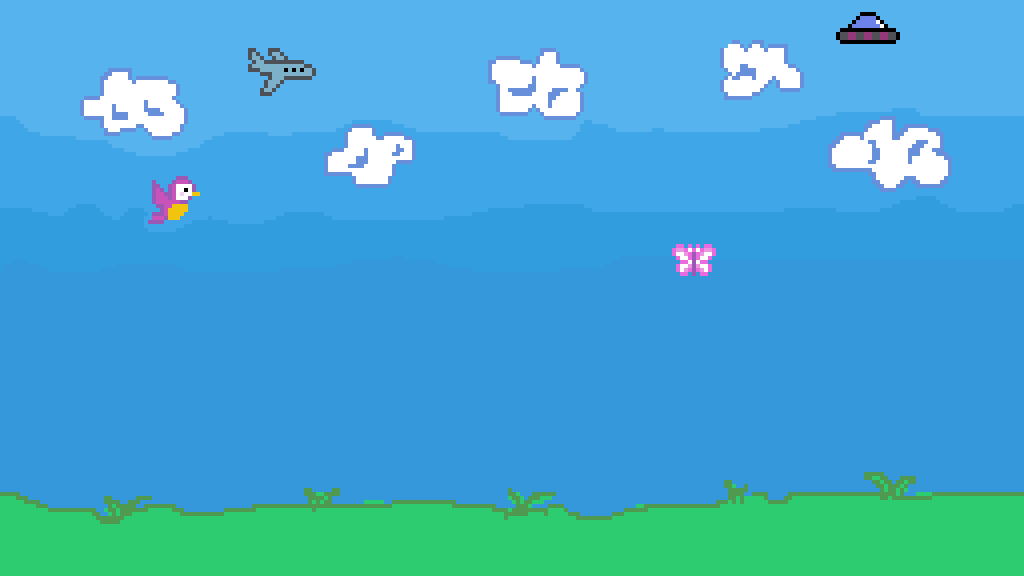
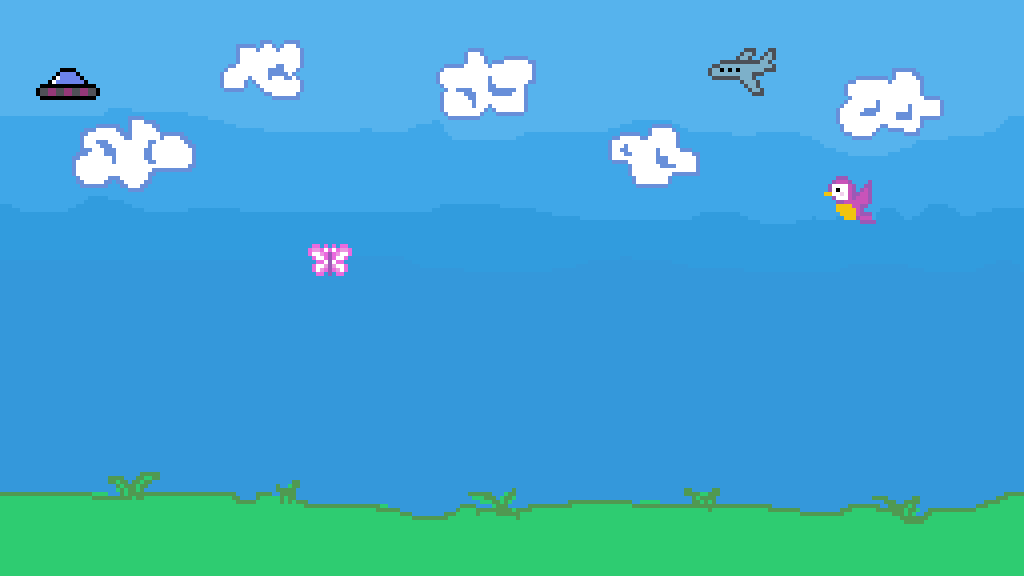
new gain a life when satge complete (max 9 lifes), mirrored bg, a ton of comments

diff --git a/ProgOOProject2017/src/de/uni_kiel/progOOproject17/model/GameScreen.java b/ProgOOProject2017/src/de/uni_kiel/progOOproject17/model/GameScreen.java
@@ -70,6 +70,8 @@ public class GameScreen extends Screen implements Environment, CreationHelper, S
 		levelGenerator = new LevelGenerator(this, this, () -> {
 
 			player.addPoint();
+			player.addLife();
+			
 			// speed up :D
 			screenVelocity *= Double.valueOf(GameProperties.getInstance().getProperty("stageSpeedup"));
 			player.setPermaXVel(screenVelocity);
@@ -122,18 +124,6 @@ public class GameScreen extends Screen implements Environment, CreationHelper, S
 		putAction(InputActionKeys.P_SELECT, pauseAction);
 
 		create(player);
-
-		// tests below:
-
-		// create(new Floor("floor", PLGameModel.lhToGam(0,
-		// PLGameModel.LH_HEIGHT - 1, PLGameModel.LH_WIDTH, 1)));
-
-		// create(new Background("background", 0, 0, w, h));
-
-		// PARTICLE TEST:
-		// Particle particle = new Particle("partTest", 800, 0, 300, 300,
-		// 1000,4);
-		// create(particle);
 
 	}
 

diff --git a/ProgOOProject2017/src/de/uni_kiel/progOOproject17/model/Player.java b/ProgOOProject2017/src/de/uni_kiel/progOOproject17/model/Player.java
@@ -25,7 +25,9 @@ public class Player extends GameEntity {
 
 	private int points = 0;
 
-	private int lifes = Integer.valueOf(GameProperties.getInstance().getProperty("playerLifes"));
+	private final int maxLifes = 9;
+	
+	private int lifes = Math.min(Integer.valueOf(GameProperties.getInstance().getProperty("playerLifes")), maxLifes);
 
 	private MoveCommand currMoveCommand = MoveCommand.NONE;
 
@@ -267,6 +269,14 @@ public class Player extends GameEntity {
 	public String getResourceKey() {
 		String key = super.getResourceKey();
 		return (currMoveState == CROUCHING || currMoveState == MoveState.JUMPING_AND_CROUCHING) ? key + "_C" : key;
+	}
+
+	/**
+	 * Adds a life to the player;
+	 */
+	public void addLife() {
+		lifes = Math.min(maxLifes, lifes+1);
+		
 	}
 
 }

diff --git a/ProgOOProject2017/src/de/uni_kiel/progOOproject17/model/levelgen/Obstacle.java b/ProgOOProject2017/src/de/uni_kiel/progOOproject17/model/levelgen/Obstacle.java
@@ -97,7 +97,7 @@ public enum Obstacle {
 		// Creates an enemy hovering a little bit above the ground so the player
 		// has to decide quickly whether to crouch or to jump.
 		int spaceBefore = LHPIXEL_WIDTH * 1;
-		int hoveringHeight = 25;
+		int hoveringHeight = 15;
 		Enemy e = new Enemy(ENEMYRESKEY, new Point(x + spaceBefore, FLOOR_POS));
 		e.translate(0, -e.getHeight() - hoveringHeight);
 		e.setGravityActive(false);
